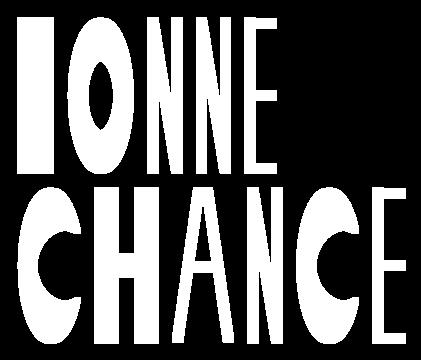
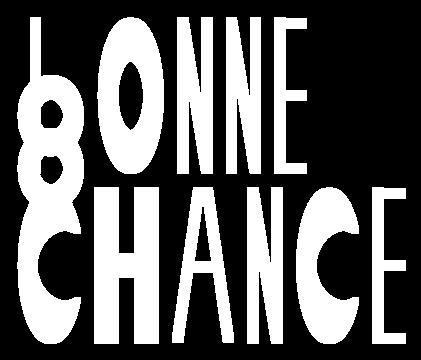
bONNE CHANCE
il manque le B

Changed region(s): [[0.0309, 0.0306, 0.7411, 0.5806], [0.0309, 0.3361, 0.0618, 0.4278]]

diff --git a/src/main/java/Letter/LetterFactory.java b/src/main/java/Letter/LetterFactory.java
@@ -44,7 +44,23 @@ public final class LetterFactory {
      * @return BaseShape containing the letter B
      */
     public static BaseShape create_B() {
-        return  new Rectangle(halfMaxWidth, maxHeight);
+        Ellipse ellipse1 = new Ellipse(maxWidth, halfMaxHeight);
+        Ellipse ellipse2 = new Ellipse(halfMaxWidth, halfMaxHeight/2);
+        Ellipse ellipse3 = new Ellipse(maxWidth, halfMaxHeight);
+        Ellipse ellipse4 = new Ellipse(halfMaxWidth, halfMaxHeight/2);
+        Rectangle rectangle1 = new Rectangle(halfStripeThickness, maxHeight);
+
+        Point2d point1 = new Point2d(15.0, 73.0);
+        Point2d point2 = new Point2d(15.0, 73.0);
+        Point2d point3 = new Point2d(15.0, 20.0);
+        Point2d point4 = new Point2d(15.0, 20.0);
+
+        ellipse1.translate(ellipse1.getCoords(), point1);
+        ellipse2.translate(ellipse2.getCoords(), point2);
+        ellipse3.translate(ellipse3.getCoords(), point3);
+        ellipse4.translate(ellipse4.getCoords(), point4);
+
+        return rectangle1.add(ellipse1.remove(ellipse2).add(ellipse3.remove(ellipse4)));
     }
 
     /** TODO
